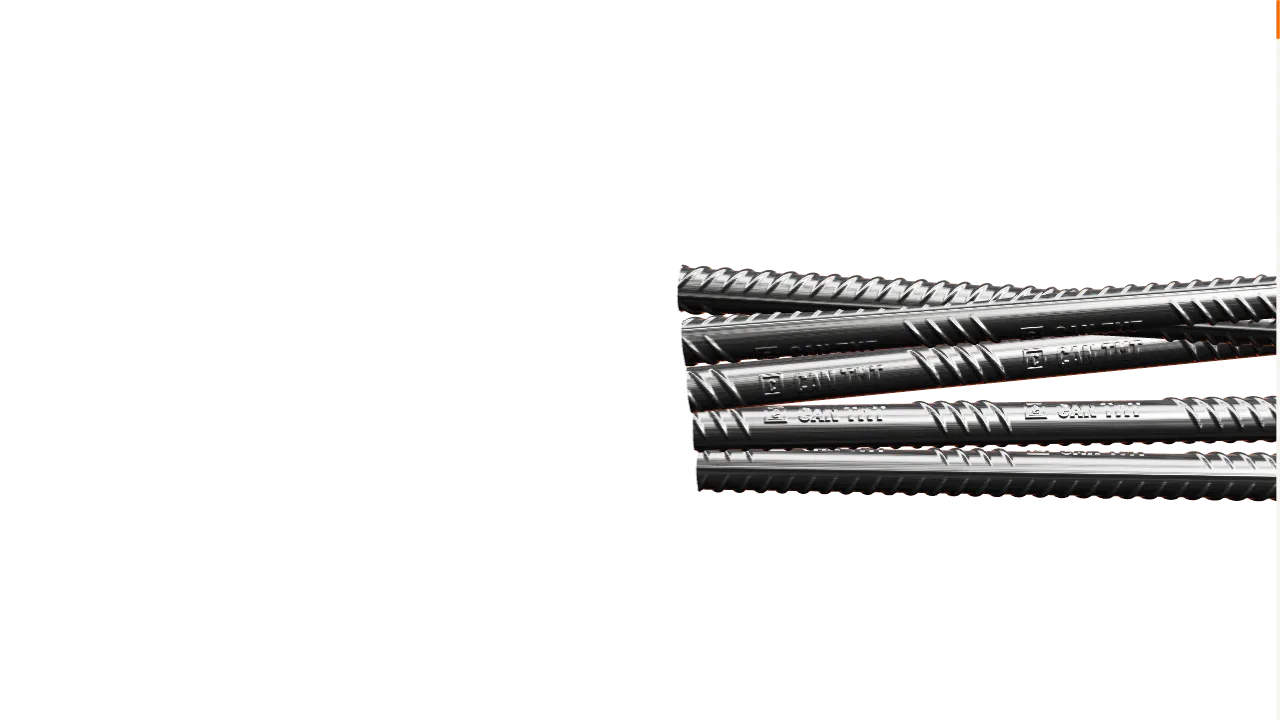
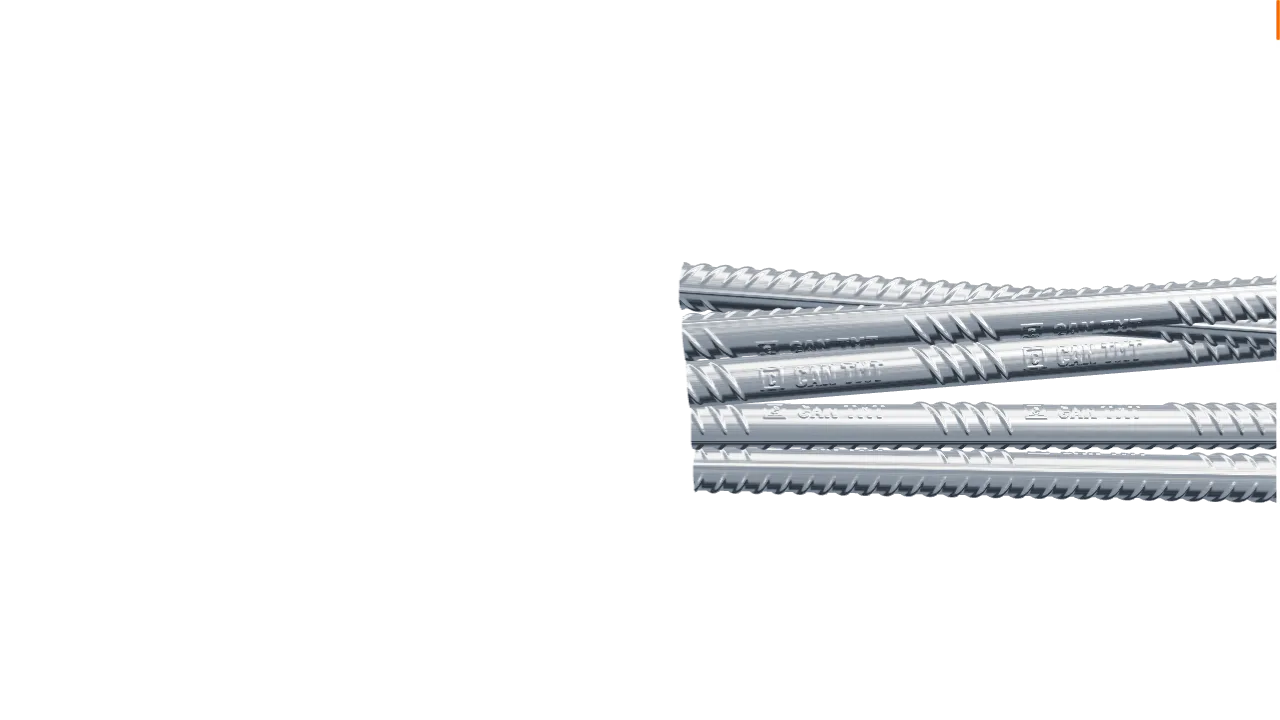
Crisp steel on white: fade only behind text (was veiling the 3D), daylight studio lighting, sharp tier for 4-core laptops, higher-res maps, refreshed fallback

Changed region(s): [[0.5312, 0.3667, 1.0, 0.7028]]

diff --git a/src/three/StudioLights.tsx b/src/three/StudioLights.tsx
@@ -1,22 +1,28 @@
 import { Environment, Lightformer } from '@react-three/drei';
 
-/** Procedural studio environment (no HDR download) with a warm molten-orange rim behind the subject. */
+/**
+ * Bright daylight studio for the white theme (no HDR download). Polished steel is a mirror, so the
+ * environment's base colour is what the bars "are": a light cool grey reads as clean silver on a white page.
+ * Orange is kept to one faint strip so edges pick up a hint of brand colour without glowing.
+ */
 export function StudioLights() {
   return (
     <>
       <Environment resolution={256} frames={1}>
-        <Lightformer form="rect" intensity={2.2} position={[0, 6, 1]} rotation-x={Math.PI / 2} scale={[14, 3, 1]} />
-        <Lightformer form="rect" intensity={1.2} position={[-7, 1, 3]} rotation-y={Math.PI / 2.5} scale={[10, 2, 1]} />
-        <Lightformer form="rect" intensity={0.8} position={[7, -1, 4]} rotation-y={-Math.PI / 2.5} scale={[10, 1.5, 1]} />
-        <Lightformer form="rect" intensity={3} color="#FF6A00" position={[0, -1.5, -9]} scale={[7, 1.2, 1]} />
-        <Lightformer form="ring" intensity={2.5} position={[6, 3, -5]} scale={3} />
+        <color attach="background" args={['#7f8a96']} />
+        <Lightformer form="rect" intensity={3} position={[0, 7, 1]} rotation-x={Math.PI / 2} scale={[16, 4, 1]} />
+        <Lightformer form="rect" intensity={1.6} position={[-7, 1, 4]} rotation-y={Math.PI / 2.5} scale={[12, 3, 1]} />
+        <Lightformer form="rect" intensity={1.2} position={[7, -1, 4]} rotation-y={-Math.PI / 2.5} scale={[12, 2, 1]} />
+        {/* dark floor strip: gives the chrome a crisp dark band so ribs and lettering keep their contrast */}
+        <Lightformer form="rect" intensity={2} color="#1d2228" position={[0, -6, 0]} rotation-x={-Math.PI / 2} scale={[30, 6, 1]} />
+        <Lightformer form="rect" intensity={0.6} color="#FF6A00" position={[0, -1.5, -9]} scale={[6, 0.8, 1]} />
         {/* softboxes beyond each end so the machined cut faces read bright silver */}
         <Lightformer form="rect" intensity={3} position={[14, 0, -2]} rotation-y={-Math.PI / 2} scale={[8, 8, 1]} />
         <Lightformer form="rect" intensity={3} position={[-14, 0, -2]} rotation-y={Math.PI / 2} scale={[8, 8, 1]} />
       </Environment>
-      <directionalLight position={[3, 5, 6]} intensity={1.6} color="#f2efe9" />
-      <directionalLight position={[-4, 1, -6]} intensity={2.4} color="#FF6A00" />
-      <ambientLight intensity={0.08} />
+      <directionalLight position={[3, 5, 6]} intensity={1.4} color="#ffffff" />
+      <directionalLight position={[-4, 2, -6]} intensity={0.8} color="#dfe6ee" />
+      <ambientLight intensity={0.1} />
     </>
   );
 }

diff --git a/src/components/sections/Story.tsx b/src/components/sections/Story.tsx
@@ -199,8 +199,8 @@ export function Story() {
           </Suspense>
         )}
       </div>
-      {/* readability: darken behind the text column (left on desktop, bottom on mobile) */}
-      <div className="absolute inset-0 pointer-events-none bg-gradient-to-t from-paper via-paper/40 to-transparent lg:bg-gradient-to-r lg:from-paper lg:via-paper/55 lg:to-transparent" />
+      {/* readability: white fade only behind the text column (left on desktop, bottom on mobile), never over the steel */}
+      <div className="absolute inset-0 pointer-events-none bg-gradient-to-t from-paper from-20% via-paper/60 via-35% to-transparent to-55% lg:bg-gradient-to-r lg:from-paper lg:from-15% lg:via-paper/60 lg:via-30% lg:to-transparent lg:to-48%" />
 
       {/* 3D-pinned callouts need room; on phones the same labels appear as tags in the panel instead */}
       <div className="absolute inset-0 pointer-events-none hidden sm:block" aria-hidden="true">

diff --git a/src/hooks/useDevicePerf.ts b/src/hooks/useDevicePerf.ts
@@ -5,7 +5,7 @@ const nav = navigator as Navigator & { deviceMemory?: number };
 /** 'low' for phones, small screens and weak hardware: fewer segments, smaller maps, simpler chapter 6. */
 export function getTier(): Tier {
   if (new URLSearchParams(location.search).has('low')) return 'low';
-  const weak = (nav.hardwareConcurrency ?? 4) <= 4 || (nav.deviceMemory ?? 8) <= 4;
+  const weak = (nav.hardwareConcurrency ?? 4) <= 2 || (nav.deviceMemory ?? 8) <= 2; // 4-core laptops get the sharp tier
   const phone = matchMedia('(pointer: coarse)').matches || innerWidth < 768;
   return weak || phone ? 'low' : 'high';
 }

diff --git a/src/three/barConfig.ts b/src/three/barConfig.ts
@@ -27,8 +27,8 @@ export const barConfig = {
 
   // Resolution per device tier
   tiers: {
-    high: { radial: 128, segments: 1100, mapW: 768 },
-    low: { radial: 48, segments: 420, mapW: 384 },
+    high: { radial: 128, segments: 1100, mapW: 1024 },
+    low: { radial: 56, segments: 480, mapW: 512 },
   },
 
   // Set to e.g. '/models/bar.glb' to use a scanned model instead (see README).
